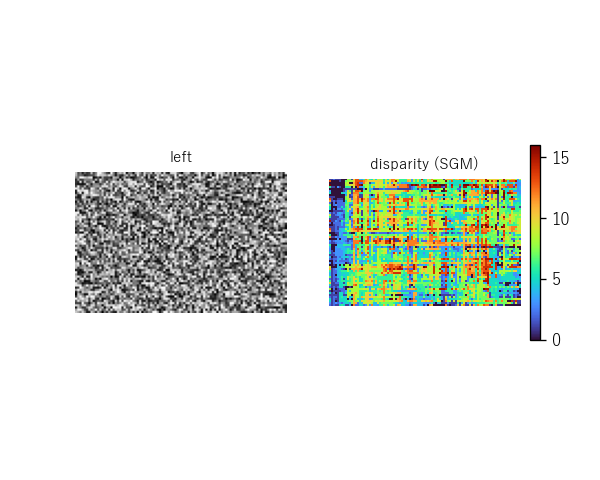
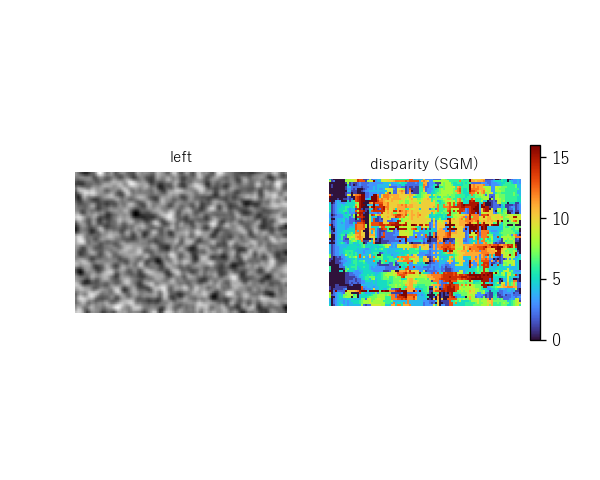
auto: studio_app.py 編集前 (2026-08-18 07:30)

Changed region(s): [[0.12, 0.3438, 0.48, 0.6562], [0.54, 0.375, 0.87, 0.6562]]

diff --git a/spikes/studio_app.py b/spikes/studio_app.py
@@ -64,13 +64,19 @@ def box_surface(nx: int = 8, half=(0.15, 0.1, 0.12)) -> np.ndarray:
 
 
 def stereo_pair(h: int = 64, w: int = 96, bg_disp: int = 3, fg_disp: int = 9):
-    """既知視差の合成ステレオ対(前景ブロックほど大きくずれる=近い)。texture 有りで SGM が効く。"""
+    """既知視差の合成ステレオ対(前景ブロックほど大きくずれる=近い)。
+
+    純ランダムだと SGM が誤マッチするので、テクスチャを軽く平滑化して局所的に一意にする
+    (実ステレオでも smooth な自然テクスチャの方が対応が付きやすい)。"""
+    from scipy import ndimage
     rng = np.random.default_rng(1)
-    tex = rng.random((h, w + fg_disp + 4))
-    left = tex[:, fg_disp + 4:fg_disp + 4 + w].copy()
-    right = np.roll(tex, bg_disp, axis=1)[:, fg_disp + 4:fg_disp + 4 + w].copy()
-    fg = (slice(18, 46), slice(30, 66))                       # 近い前景ブロック
-    right[fg] = np.roll(tex, fg_disp, axis=1)[:, fg_disp + 4:fg_disp + 4 + w][fg]
+    pad = fg_disp + 4
+    tex = ndimage.gaussian_filter(rng.random((h, w + pad)), sigma=1.1)  # 平滑テクスチャ
+    tex = (tex - tex.min()) / (tex.ptp() + 1e-9)
+    left = tex[:, pad:pad + w].copy()
+    right = np.roll(tex, bg_disp, axis=1)[:, pad:pad + w].copy()          # 背景=小視差
+    fg = (slice(18, 46), slice(30, 66))                                  # 近い前景ブロック=大視差
+    right[fg] = np.roll(tex, fg_disp, axis=1)[:, pad:pad + w][fg]
     return left, right
 
 
